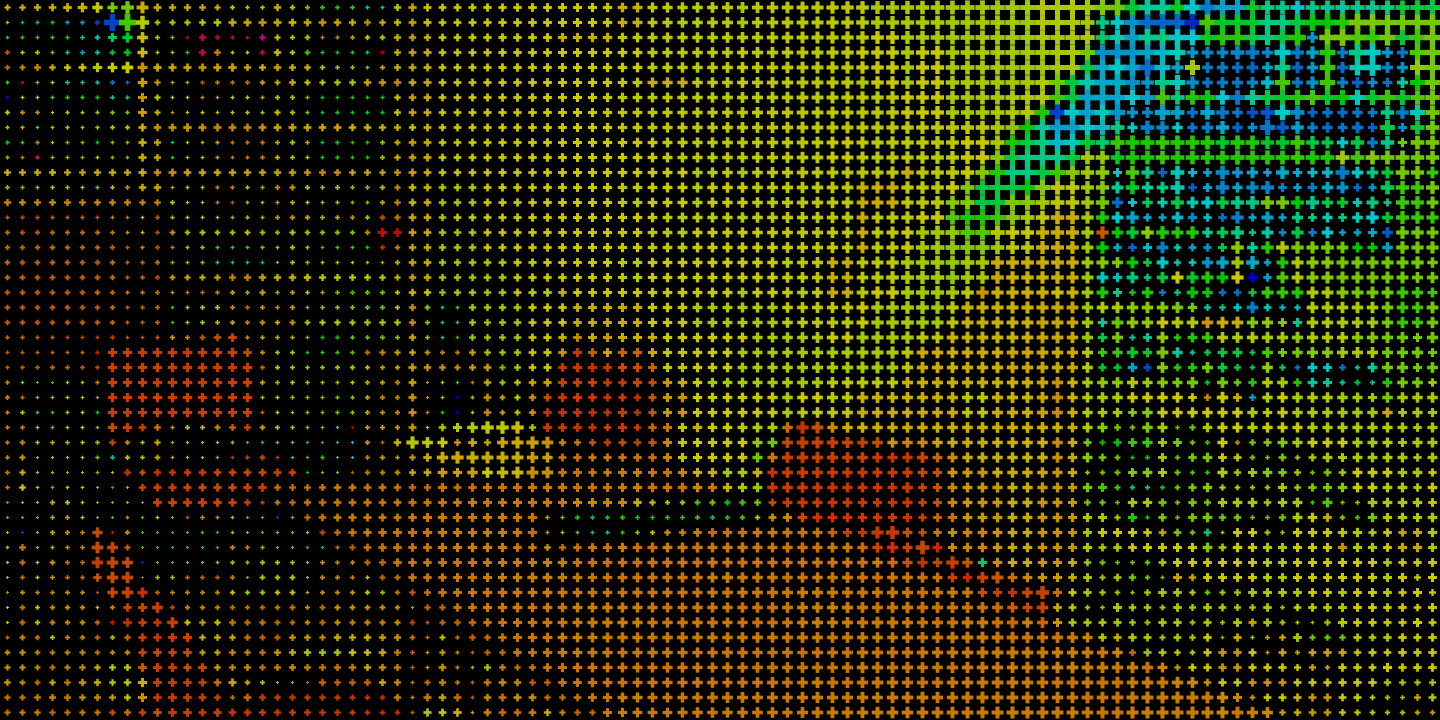
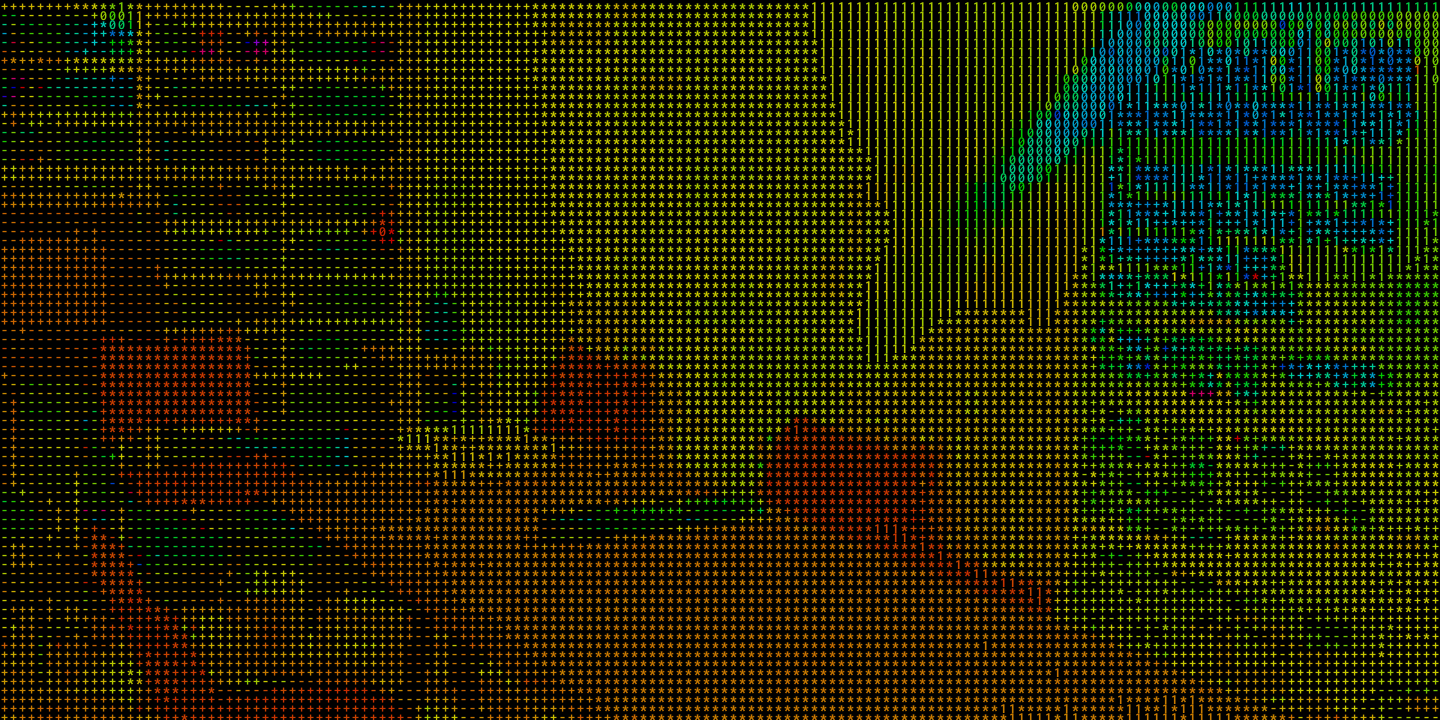
6 & 7

diff --git a/2023/sketch_2023_09_06/sketch_2023_09_06.py b/2023/sketch_2023_09_06/sketch_2023_09_06.py
@@ -1,3 +1,8 @@
+from functools import cache
+
+passo = 9
+stats = set()
+
 def setup():
     global img
     size(1440, 720)
@@ -6,25 +11,28 @@ def setup():
     no_loop()
     no_stroke()
     color_mode(HSB)
+    text_font(create_font('Inconsolata Bold', 10))
+    text_align(CENTER, CENTER)
     
 def draw():
-    background(255)
     background(0)
     #image(img, 0, 0)
     xi, yi, wi, hi = 200, 100, 1000, 500
-    passo = 15
     for x in range(0, width, passo):
         for y in range(0, height, passo):
             xa = int(remap(x, 0, width, xi, xi + wi))
             ya = int(remap(y, 0, height, yi, yi + hi))
             c = img.get_pixels(xa , ya)
-            b = brightness(c)
-            fill(color(hue(c), 255, 200))
-            #d = 1 + passo * (255 - b) / 255
-            d = passo * b / 255
-            mais(passo / 2 + x, passo / 2 + y, 2 + d)
+            b, s = brightness_and_saturated(c)
+            elemento(passo / 2 + x, passo / 2 + y, b, s)
             
     save_frame(__file__[:-3] + '.png')
+    print(len(stats), stats)
+
+         
+@cache
+def brightness_and_saturated(c):
+    return brightness(c), color(hue(c), 255, 200)
          
 def clip_with_mask(img, mask, x, y):    
     """Clip an image using a mask, its dimensions, and a given position."""
@@ -34,12 +42,16 @@ def clip_with_mask(img, mask, x, y):
     result.mask(mask)
     return result
 
-def mais(x, y, w):
+def elemento(x, y, b, s):
     rect_mode(CENTER)
-    rect(x, y, w, w / 3)
-    rect(x, y, w / 3, w)
-
-
+    fill(s)
+    d = passo * b / 255 + 2
+    stats.add(int(d) // 2)
+    t = ' -+*108'[int(d) // 2]
+    text_size(14)
+    text(t, x, y)
+#     rect(x, y, w, w / 3)
+#     rect(x, y, w / 3, w)
 
 def key_pressed():
     redraw()

diff --git a/2023/sketch_2023_09_07/sketch_2023_09_07.py b/2023/sketch_2023_09_07/sketch_2023_09_07.py
@@ -1,0 +1,33 @@
+from itertools import chain
+
+w = 100
+n = 6
+pad = 5
+
+def setup():
+    size(600, 600)
+    grid = {}
+    for i in range(n):
+        for j in range(n):
+            grid[(i, j)] = (
+                w / 2 + i * w + random(-10, 10),
+                w / 2 + j * w + random(-10, 10)
+                )
+    faces = []
+    for i in range(n - 1):
+        for j in range(n - 1):
+            a, b, c, d = (
+                grid[(i, j)],
+                grid[(i + 1, j)],
+                grid[(i + 1, j + 1)],
+                grid[(i, j + 1)]
+                )
+            faces.append((
+                (a[0] + pad, a[1] + pad),
+                (b[0] - pad, b[1] + pad),
+                (c[0] - pad, c[1] - pad),
+                (d[0] + pad, d[1] - pad),
+                ))
+    with begin_shape(QUADS):
+        vertices(list(chain(*faces)))
+        

diff --git a/docs/README.md b/docs/README.md
@@ -35,6 +35,26 @@ Here are listed some of the tools I have been using:
 
 ---
 
+### sketch_2023_09_07
+
+![sketch_2023_09_07](https://raw.githubusercontent.com/villares/sketch-a-day/main/2023/sketch_2023_09_07/sketch_2023_09_07.png)
+
+[sketch_2023_09_07](https://github.com/villares/sketch-a-day/tree/main/2023/sketch_2023_09_07) [[py5](https://py5coding.org/)]
+
+
+
+---
+
+### sketch_2023_09_06
+
+![sketch_2023_09_06](https://raw.githubusercontent.com/villares/sketch-a-day/main/2023/sketch_2023_09_06/sketch_2023_09_06.png)
+
+[sketch_2023_09_06](https://github.com/villares/sketch-a-day/tree/main/2023/sketch_2023_09_06) [[py5](https://py5coding.org/)]
+
+
+
+---
+
 ### sketch_2023_09_05
 
 ![sketch_2023_09_05](https://raw.githubusercontent.com/villares/sketch-a-day/main/2023/sketch_2023_09_05/sketch_2023_09_05.png)
